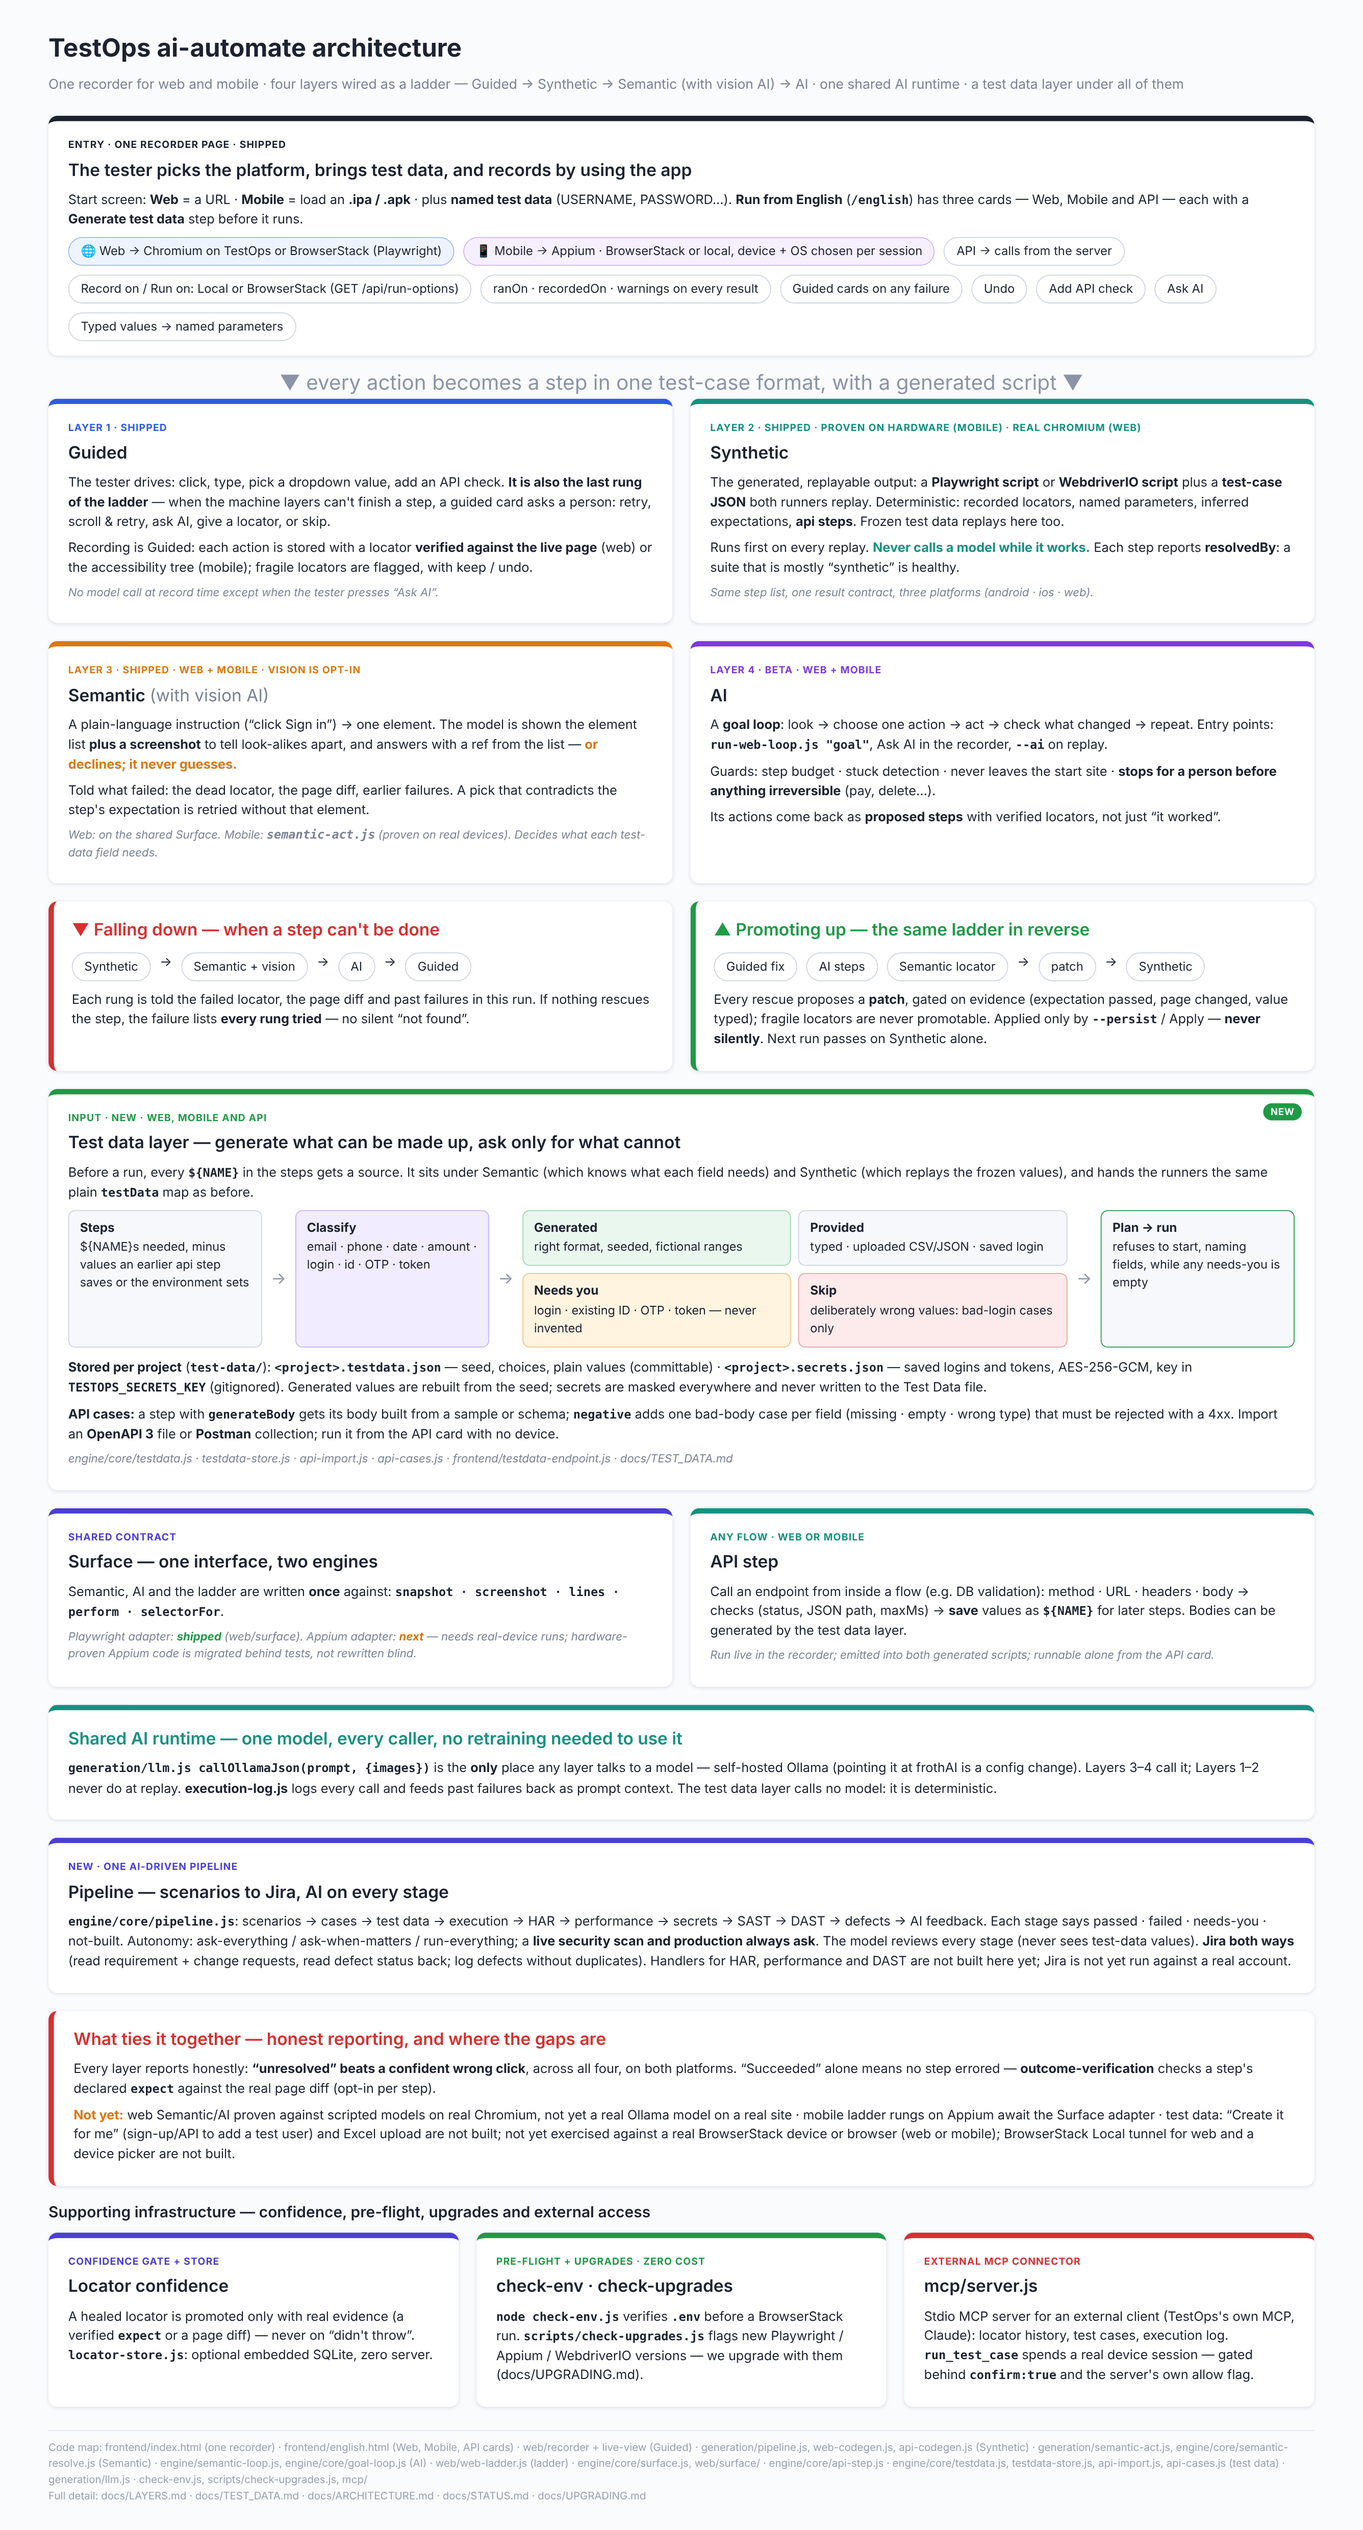
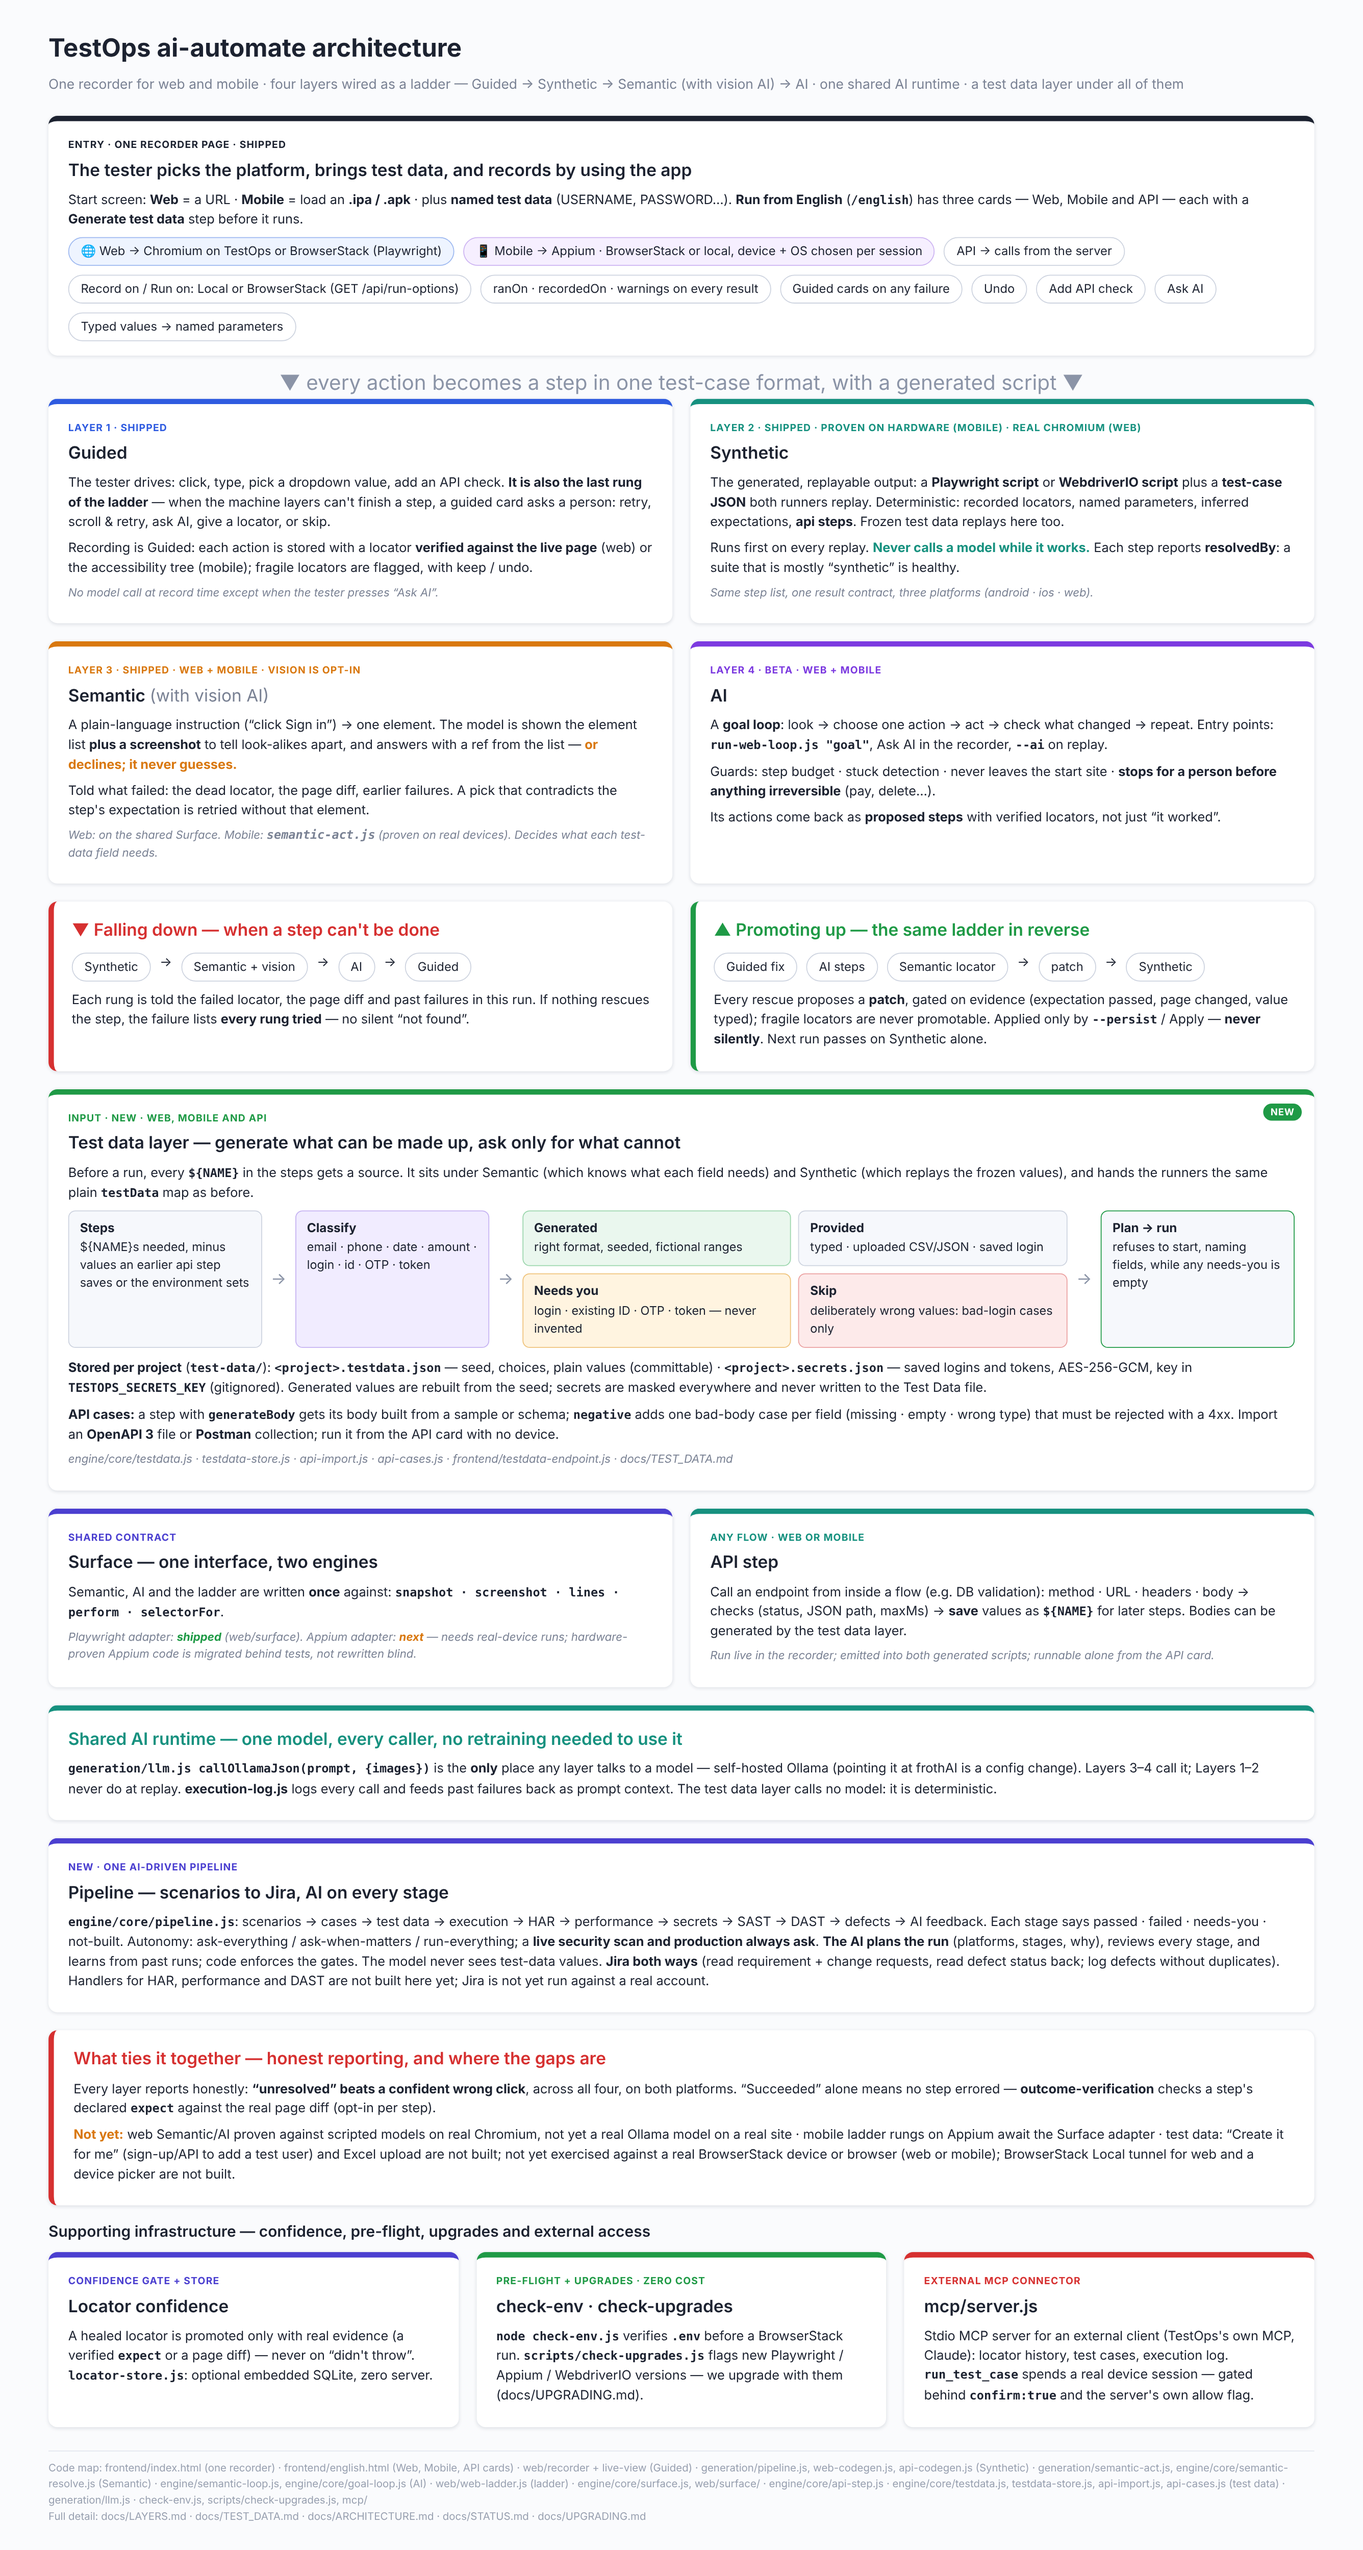
AI-driven pipeline: the model plans the run, reviews every stage and learns from past runs; gates stay in code
Claude-Session: https://claude.ai/code/session_011mpsted7Jao3iwytnvk4Hc

diff --git a/engine/core/ai-pipeline.js b/engine/core/ai-pipeline.js
@@ -1,0 +1,66 @@
+/**
+ * The AI decides, the code enforces.
+ *   1. planRun: the model reads the goal/requirement and past runs, then decides which stages to run,
+ *      which platforms (web | api | mobile) the requirement needs, and why. Output is checked against the
+ *      real stage list; anything invented is dropped.
+ *   2. runAiPipeline: runs the chosen stages, has the model review each one, and writes the outcome
+ *      (statuses, notes, never data) to a run log that the next plan reads back.
+ * The model can never lower a gate: a live security scan and production always ask, and the autonomy
+ * level the tester chose is applied by pipeline.js, not by the model.
+ * If the model is down or answers badly, every stage runs in order, and the plan says so.
+ */
+const fs = require("fs");
+const path = require("path");
+const { STAGES, runPipeline, llmReviewer } = require("./pipeline");
+
+const PLATFORMS = ["web", "api", "mobile"];
+const logPath = (env = process.env) => env.TESTOPS_PIPELINE_LOG || path.join(__dirname, "..", "..", "logs", "pipeline-runs.jsonl");
+
+/** Last few runs, as short lines the model can learn from. Never contains test-data values. */
+function history({ n = 5, env = process.env } = {}) {
+  try {
+    return fs.readFileSync(logPath(env), "utf8").trim().split("\n").slice(-n).map((l) => JSON.parse(l))
+      .map((r) => `${r.goal || "run"}: ` + r.stages.map((s) => `${s.id}=${s.status}${s.ai ? " (" + s.ai + ")" : ""}`).join(", "));
+  } catch { return []; }
+}
+function record(result, { goal, env = process.env } = {}) {
+  const p = logPath(env);
+  fs.mkdirSync(path.dirname(p), { recursive: true });
+  const stages = result.stages.map(({ id, status, detail, ai }) => ({ id, status, detail: String(detail || "").slice(0, 200), ...(ai ? { ai } : {}) }));
+  fs.appendFileSync(p, JSON.stringify({ at: new Date().toISOString(), goal: String(goal || "").slice(0, 200), stages }) + "\n");
+}
+
+function fallbackPlan(why) {
+  return { source: "fallback", reason: why, platforms: PLATFORMS.slice(), stages: STAGES.map((s) => ({ id: s.id, run: true, why: "default order" })) };
+}
+/** @returns {Promise<{source, platforms, stages:[{id,run,why}], reason?}>} */
+async function planRun({ goal, requirement = "", callJson, past = [] }) {
+  if (!callJson) return fallbackPlan("no model configured");
+  const ids = STAGES.map((s) => s.id).join(", ");
+  const prompt = `You are the test manager of an automated QA platform. Plan this run.\nGoal: ${goal}\nRequirement:\n${String(requirement).slice(0, 4000)}\n` +
+    (past.length ? `Recent runs (learn from them):\n${past.join("\n")}\n` : "") +
+    `Stages available: ${ids}.\nDecide which platforms the requirement needs (web, api, mobile; only those it mentions), and which stages to run.\n` +
+    `Reply JSON {"platforms":["web"],"stages":[{"id":"scenarios","run":true,"why":"short reason"}]}.`;
+  let r;
+  try { r = await callJson(prompt); } catch (e) { return fallbackPlan(`model unavailable: ${e.message}`); }
+  if (!r || !Array.isArray(r.stages)) return fallbackPlan("the model's plan could not be read");
+  const known = new Set(STAGES.map((s) => s.id));
+  const chosen = new Map(r.stages.filter((s) => s && known.has(s.id)).map((s) => [s.id, s]));
+  const platforms = (Array.isArray(r.platforms) ? r.platforms : []).filter((p) => PLATFORMS.includes(p));
+  return { source: "ai", platforms: platforms.length ? platforms : PLATFORMS.slice(),
+    // A stage the model left out is not silently dropped: it runs, marked as the default.
+    stages: STAGES.map((s) => chosen.has(s.id) ? { id: s.id, run: chosen.get(s.id).run !== false, why: String(chosen.get(s.id).why || "").slice(0, 200) } : { id: s.id, run: true, why: "not mentioned by the AI; default" }) };
+}
+
+async function runAiPipeline({ goal, requirement, ctx = {}, handlers, autonomy, approvals, production, callJson, exec, env = process.env, log = true } = {}) {
+  const plan = await planRun({ goal, requirement, callJson, past: history({ env }) });
+  const only = plan.stages.filter((s) => s.run).map((s) => s.id);
+  const result = await runPipeline({ ctx: { ...ctx, platforms: plan.platforms }, handlers, only, autonomy, approvals, production, exec,
+    ai: callJson ? llmReviewer({ callJson }) : undefined });
+  const withWhy = result.stages.map((s) => ({ ...s, decided: (plan.stages.find((p) => p.id === s.id) || {}).why }));
+  const out = { ...result, stages: withWhy, plan };
+  if (log) { try { record(out, { goal, env }); } catch { /* a full disk never fails a run */ } }
+  return out;
+}
+
+module.exports = { planRun, runAiPipeline, history, record, logPath };

diff --git a/docs/diagrams/architecture.html b/docs/diagrams/architecture.html
@@ -52,7 +52,7 @@ code,.m{font-family:"JetBrains Mono",Menlo,monospace;font-weight:700;font-size:1
 
 <div class="card green" style="border-top-color:#16917f"><h2 style="color:#16917f">Shared AI runtime — one model, every caller, no retraining needed to use it</h2><p><b class="m">generation/llm.js callOllamaJson(prompt, {images})</b> is the <b>only</b> place any layer talks to a model — self-hosted Ollama (pointing it at frothAI is a config change). Layers 3–4 call it; Layers 1–2 never do at replay. <b>execution-log.js</b> logs every call and feeds past failures back as prompt context. The test data layer calls no model: it is deterministic.</p></div>
 
-<div class="card indigo"><div class="eyebrow">New · one AI-driven pipeline</div><h2>Pipeline — scenarios to Jira, AI on every stage</h2><p><b class="m">engine/core/pipeline.js</b>: scenarios → cases → test data → execution → HAR → performance → secrets → SAST → DAST → defects → AI feedback. Each stage says passed · failed · needs-you · not-built. Autonomy: ask-everything / ask-when-matters / run-everything; a <b>live security scan and production always ask</b>. The model reviews every stage (never sees test-data values). <b>Jira both ways</b> (read requirement + change requests, read defect status back; log defects without duplicates). Handlers for HAR, performance and DAST are not built here yet; Jira is not yet run against a real account.</p></div>
+<div class="card indigo"><div class="eyebrow">New · one AI-driven pipeline</div><h2>Pipeline — scenarios to Jira, AI on every stage</h2><p><b class="m">engine/core/pipeline.js</b>: scenarios → cases → test data → execution → HAR → performance → secrets → SAST → DAST → defects → AI feedback. Each stage says passed · failed · needs-you · not-built. Autonomy: ask-everything / ask-when-matters / run-everything; a <b>live security scan and production always ask</b>. <b>The AI plans the run</b> (platforms, stages, why), reviews every stage, and learns from past runs; code enforces the gates. The model never sees test-data values. <b>Jira both ways</b> (read requirement + change requests, read defect status back; log defects without duplicates). Handlers for HAR, performance and DAST are not built here yet; Jira is not yet run against a real account.</p></div>
 <div class="card red" style="border-top:0;border-left:6px solid #d63030"><h2 style="color:#d63030">What ties it together — honest reporting, and where the gaps are</h2><p>Every layer reports honestly: <b>“unresolved” beats a confident wrong click</b>, across all four, on both platforms. “Succeeded” alone means no step errored — <b>outcome-verification</b> checks a step's declared <b class="m">expect</b> against the real page diff (opt-in per step).</p><p><b style="color:#d9780f">Not yet:</b> web Semantic/AI proven against scripted models on real Chromium, not yet a real Ollama model on a real site · mobile ladder rungs on Appium await the Surface adapter · test data: “Create it for me” (sign-up/API to add a test user) and Excel upload are not built; not yet exercised against a real BrowserStack device or browser (web or mobile); BrowserStack Local tunnel for web and a device picker are not built.</p></div>
 
 <div class="sec">Supporting infrastructure — confidence, pre-flight, upgrades and external access</div>

diff --git a/engine/test/ai-pipeline.test.js b/engine/test/ai-pipeline.test.js
@@ -1,0 +1,42 @@
+const assert = require("assert");
+const fs = require("fs"), os = require("os"), path = require("path");
+const { planRun, runAiPipeline, history } = require("../core/ai-pipeline");
+const env = { TESTOPS_PIPELINE_LOG: path.join(fs.mkdtempSync(path.join(os.tmpdir(), "pl-")), "runs.jsonl") };
+const ok = async () => ({ ok: true, detail: "done" });
+const by = (r, id) => r.stages.find((s) => s.id === id);
+
+(async () => {
+  // No model: everything runs in order and the plan says it is a fallback.
+  let p = await planRun({ goal: "g" });
+  assert.strictEqual(p.source, "fallback");
+  // Bad model answer or invented stage: dropped, never trusted.
+  p = await planRun({ goal: "g", callJson: async () => ({ platforms: ["web", "toaster"], stages: [{ id: "scenarios", run: true }, { id: "bitcoin", run: true }, { id: "performance", run: false, why: "no load needed" }] }) });
+  assert.strictEqual(p.source, "ai");
+  assert.deepStrictEqual(p.platforms, ["web"]);
+  assert.strictEqual(p.stages.find((s) => s.id === "bitcoin"), undefined);
+  assert.strictEqual(p.stages.find((s) => s.id === "performance").run, false);
+  assert.strictEqual(p.stages.find((s) => s.id === "dast").why, "not mentioned by the AI; default");
+  p = await planRun({ goal: "g", callJson: async () => { throw new Error("down"); } });
+  assert.strictEqual(p.source, "fallback");
+
+  // The model skips performance; it can also try to skip nothing about gates: the live scan still asks.
+  const prompts = [];
+  const callJson = async (prompt) => {
+    prompts.push(prompt);
+    return /Plan this run/.test(prompt) ? { platforms: ["web"], stages: [{ id: "performance", run: false, why: "requirement has no load goal" }, { id: "dast", run: true, why: "check the page" }] } : { note: "ok" };
+  };
+  const hs = { scenarios: ok, cases: ok, execution: ok, dast: ok, performance: ok };
+  let r = await runAiPipeline({ goal: "test TOP-188", requirement: "login page", handlers: hs, callJson, autonomy: "run-everything", env, exec: () => ({ status: 127 }) });
+  assert.strictEqual(by(r, "performance").status, "skipped");
+  assert.strictEqual(by(r, "performance").decided, "requirement has no load goal");
+  assert.strictEqual(by(r, "dast").status, "needs-you");
+  assert.strictEqual(by(r, "scenarios").ai, "ok");
+
+  // The run is logged without data, and the next plan sees it.
+  const log = fs.readFileSync(env.TESTOPS_PIPELINE_LOG, "utf8");
+  assert.ok(log.includes("test TOP-188") && !log.includes("login page"));
+  assert.ok(history({ env })[0].includes("dast=needs-you"));
+  await runAiPipeline({ goal: "again", handlers: hs, callJson, env, exec: () => ({ status: 127 }) });
+  assert.ok(prompts[prompts.length - 1] !== undefined && prompts.some((x) => x.includes("Recent runs") && x.includes("dast=needs-you")));
+  console.log("ai-pipeline tests passed");
+})().catch((e) => { console.error(e); process.exit(1); });

diff --git a/docs/PIPELINE.md b/docs/PIPELINE.md
@@ -32,6 +32,17 @@ const r = await runPipeline({ ctx: { steps, dir: "." }, handlers: { execution },
 // r.stages, r.summary, r.needsYou
 ```
 
+## AI decides, code enforces (`engine/core/ai-pipeline.js`)
+
+`runAiPipeline({goal, requirement, handlers, callJson, autonomy})`:
+
+1. **Plan.** The model reads the goal, the requirement and the last runs, and decides the platforms (web, api, mobile; only what the requirement mentions) and which stages to run, with a reason for each. Invented stages are dropped; a stage it forgets still runs, marked as the default.
+2. **Run.** The chosen stages run through `runPipeline`. Gates stay in code: the model cannot lower the autonomy level, the live-scan rule or the production rule.
+3. **Review.** The model writes a note on every stage (cause and next action).
+4. **Remember.** Statuses and notes (never test-data values or requirement text) are appended to `logs/pipeline-runs.jsonl` (`TESTOPS_PIPELINE_LOG` to move it), and the next plan reads the last five runs.
+
+If the model is down or answers badly, every stage runs in order and the plan says `source: "fallback"`. Each stage in the result carries `decided`, the AI's reason.
+
 ## Jira, both ways (`engine/core/jira.js`)
 
 | Direction | What |
@@ -44,4 +55,6 @@ const r = await runPipeline({ ctx: { steps, dir: "." }, handlers: { execution },
 
 Settings: `JIRA_BASE_URL`, `JIRA_EMAIL`, `JIRA_API_TOKEN`, `JIRA_PROJECT_KEY`, `JIRA_DEFECT_TYPE` (see `.env.example`). Errors never repeat Jira's response, and the token only goes in the Authorization header. Not yet verified against a real Jira (no network from the build sandbox); tested against a fake Jira (`engine/test/jira.test.js`). Not built: Azure DevOps, a page or route for it, syncing Jira comments back into the AI.
 
-Tests: `engine/test/pipeline.test.js`. Not yet: an HTTP route or a page for it, the real handlers for HAR, performance, DAST and Jira, and feeding results back into the prompts.
+Tests: `engine/test/pipeline.test.js`, `jira.test.js`, `ai-pipeline.test.js`.
+
+Not yet: an HTTP route or page for the pipeline, real handlers for HAR, performance (Locust) and DAST (ZAP), and a real model run (tested against a fake model; self-hosted Ollama not exercised here).
